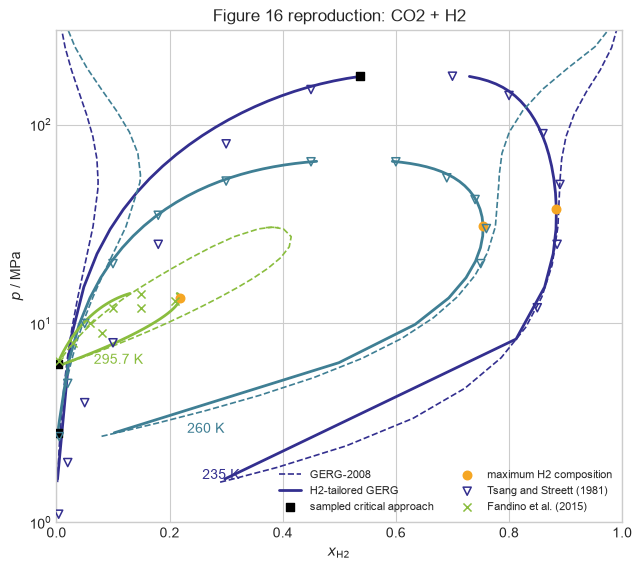
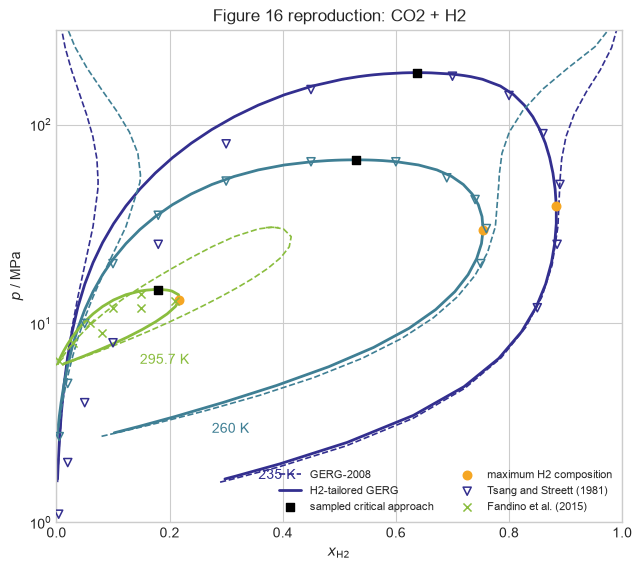
Add pressure failure refinement steps to binary Helmholtz isotherm tracing and enhance related tests

diff --git a/src/torch_flash/envelope.py b/src/torch_flash/envelope.py
@@ -1752,6 +1752,7 @@ def trace_binary_helmholtz_pxy_isotherm(
     composition_failure_refinement_steps: int = 0,
     continue_in_pressure_on_failure: bool = False,
     pressure_continuation_points: int = 25,
+    pressure_failure_refinement_steps: int = 0,
 ) -> BinaryPxyIsotherm:
     """Trace a binary pressure-composition isotherm by bubble continuation.
 
@@ -1796,6 +1797,11 @@ def trace_binary_helmholtz_pxy_isotherm(
     pressure_continuation_points
         Number of logarithmically spaced fixed-pressure solves used by the
         pressure continuation, including its final pressure.
+    pressure_failure_refinement_steps
+        Number of logarithmic bisection refinements between the last accepted
+        and first rejected fixed-pressure states. This approaches the critical
+        endpoint of a closed curve without uniformly refining the entire
+        pressure path.
 
     Returns
     -------
@@ -1821,13 +1827,15 @@ def trace_binary_helmholtz_pxy_isotherm(
     Michelsen and Mollerup, *Thermodynamic Models*, 2nd ed. (2007), chapter
     12, ISBN 978-87-989961-3-2.
 
-    Liquid-composition continuation becomes singular at a fold of an open
-    phase boundary. The optional fallback changes the continuation coordinate
-    to pressure and solves coexistence with
-    :func:`binary_helmholtz_vle_point`; it does not close a physically open
-    branch. Bisection and the discrete accept/stop/coordinate-switch decisions
-    are not differentiable, but accepted equilibrium tensors preserve their
-    PyTorch graphs.
+    Liquid-composition continuation becomes singular at a fold of an open or
+    closed phase boundary. The optional fallback changes the continuation
+    coordinate to pressure and solves coexistence with
+    :func:`binary_helmholtz_vle_point`. An open branch continues to the
+    requested pressure bound; a closed branch is refined toward its critical
+    endpoint after the first rejected pressure. The routine never forces a
+    physically open branch to close. Bisection and the discrete
+    accept/stop/coordinate-switch decisions are not differentiable, but
+    accepted equilibrium tensors preserve their PyTorch graphs.
     """
     if temperature.ndim != 0 or not bool(torch.isfinite(temperature) & (temperature > 0.0)):
         raise ValueError("binary p-x-y isotherm requires one finite positive temperature")
@@ -1850,6 +1858,8 @@ def trace_binary_helmholtz_pxy_isotherm(
         raise ValueError("binary p-x-y composition failure refinement steps must be nonnegative")
     if pressure_continuation_points < 1:
         raise ValueError("binary p-x-y pressure continuation points must be positive")
+    if pressure_failure_refinement_steps < 0:
+        raise ValueError("binary p-x-y pressure failure refinement steps must be nonnegative")
     if continue_in_pressure_on_failure and not stop_on_failure:
         raise ValueError("binary p-x-y pressure continuation requires stop_on_failure=True")
     if continue_in_pressure_on_failure and maximum_pressure is None:
@@ -1950,6 +1960,7 @@ def trace_binary_helmholtz_pxy_isotherm(
             )
         )
         pressure_initial_point: BinaryBubblePointWithVolumes | BinaryVLEPointWithVolumes = previous
+        rejected_pressure: Tensor | None = None
         for pressure in continuation_pressures:
             vle_point = binary_helmholtz_vle_point(
                 model,
@@ -1967,7 +1978,31 @@ def trace_binary_helmholtz_pxy_isotherm(
             if physical:
                 pressure_initial_point = vle_point
             elif stop_on_failure:
+                rejected_pressure = pressure
                 break
+        if rejected_pressure is not None:
+            for _ in range(pressure_failure_refinement_steps):
+                candidate_pressure = torch.sqrt(pressure_initial_point.pressure * rejected_pressure)
+                vle_point = binary_helmholtz_vle_point(
+                    model,
+                    temperature.to(
+                        dtype=candidate_pressure.dtype,
+                        device=candidate_pressure.device,
+                    ),
+                    candidate_pressure,
+                    pressure_initial_point,
+                    tolerance=tolerance,
+                    max_iterations=max_iterations,
+                    minimum_phase_separation=minimum_phase_separation,
+                )
+                physical, separation = physical_diagnostics(vle_point)
+                points.append(vle_point)
+                accepted.append(candidate_pressure.new_tensor(physical, dtype=torch.bool))
+                separations.append(separation)
+                if physical:
+                    pressure_initial_point = vle_point
+                else:
+                    rejected_pressure = candidate_pressure
 
     return BinaryPxyIsotherm(
         temperature.to(dtype=compositions.dtype, device=compositions.device),

diff --git a/tests/test_named_multiparameter.py b/tests/test_named_multiparameter.py
@@ -276,6 +276,42 @@ def test_gerg2008_open_pxy_branch_continues_through_liquid_composition_fold():
     assert result.vapor_composition[accepted, 1][-1] > result.vapor_composition[accepted, 1][-10]
 
 
+def test_hydrogen_tailored_gerg_pxy_closes_and_resolves_low_pressure_vapor_branch():
+    parameter = torch.linspace(0.0, 1.0, 31, dtype=DTYPE)
+    liquid_hydrogen = 0.002 + (0.98 - 0.002) * parameter.pow(2.5)
+    result = trace_binary_helmholtz_pxy_isotherm(
+        gerg2008_hydrogen_2021(("carbon_dioxide", "hydrogen")),
+        torch.tensor(235.0, dtype=DTYPE),
+        torch.stack((1.0 - liquid_hydrogen, liquid_hydrogen), dim=-1),
+        minimum_pressure=1.0e3,
+        maximum_pressure=315.0e6,
+        max_iterations=40,
+        composition_failure_refinement_steps=8,
+        continue_in_pressure_on_failure=True,
+        pressure_continuation_points=4,
+        pressure_failure_refinement_steps=14,
+    )
+    accepted = result.converged
+    liquid = result.liquid_composition[accepted, 1]
+    vapor = result.vapor_composition[accepted, 1]
+    pressure_MPa = result.pressure[accepted] / 1.0e6
+    assert result.phase_separation[accepted][-1] <= 1.0e-3
+    torch.testing.assert_close(
+        result.pressure[accepted][-1],
+        torch.tensor(182.36462144e6, dtype=DTYPE),
+        rtol=2.0e-8,
+        atol=2.0,
+    )
+    torch.testing.assert_close(
+        liquid[-1],
+        vapor[-1],
+        rtol=0.0,
+        atol=1.0e-3,
+    )
+    low_pressure_vapor = vapor[pressure_MPa <= 30.0]
+    assert torch.abs(torch.diff(low_pressure_vapor)).max() <= 0.15
+
+
 def test_helmholtz_volume_vle_point_matches_pressure_form():
     model = gerg2008(("nitrogen", "hydrogen"))
     temperature = torch.tensor(70.4, dtype=DTYPE)
@@ -696,6 +732,12 @@ def test_fixed_composition_boundary_clips_midscan_pressure(monkeypatch):
             torch.tensor([[0.8, 0.2]], dtype=DTYPE),
             {"pressure_continuation_points": 0},
             "continuation points",
+        ),
+        (
+            torch.tensor(90.8, dtype=DTYPE),
+            torch.tensor([[0.8, 0.2]], dtype=DTYPE),
+            {"pressure_failure_refinement_steps": -1},
+            "pressure failure refinement steps",
         ),
         (
             torch.tensor(90.8, dtype=DTYPE),
